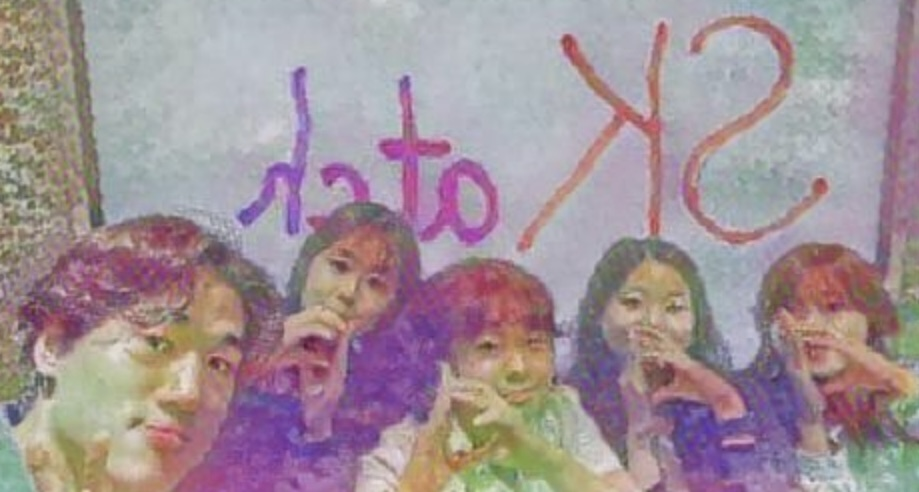
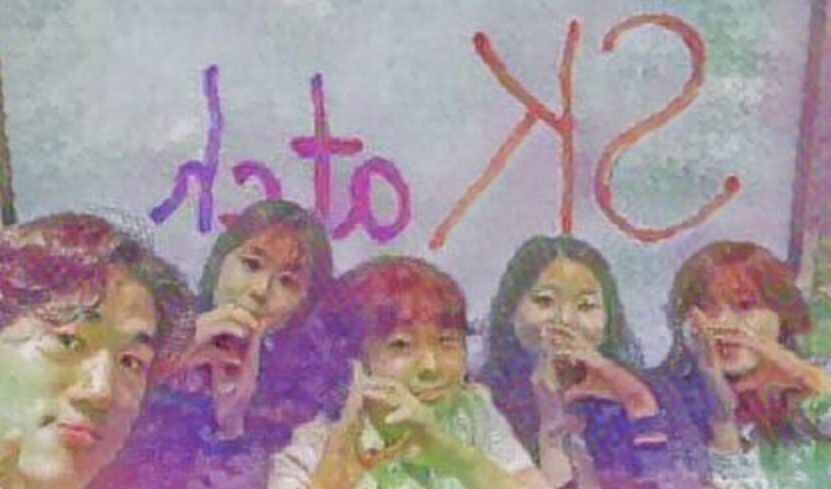
[feat] : 티켓 꾸미기UI-사진 꾸미기

diff --git a/src/domain/Ticket/screen/TicketDecoScreen.js b/src/domain/Ticket/screen/TicketDecoScreen.js
@@ -1,21 +1,30 @@
 import { StyleSheet, TouchableWithoutFeedback, View } from "react-native";
 import React, { useState } from "react";
 import {
+  accentColor,
   backgroundColor,
+  blackColor,
   mainColor,
   secondaryColor,
   whiteColor,
 } from "../../../constant/colors";
 import Text from "../../../components/MyText";
-import PhotoAlbum from "../../../constant/images/PhotoAlbum";
+
 import CustomImage from "../../../components/CustomImage";
 import TextIcon from "../../../constant/images/Text";
-import { boldFontFamily } from "../../../constant/fonts";
+import {
+  boldFontFamily,
+  lightFontFamily,
+  mediumFontFamily,
+} from "../../../constant/fonts";
 import CustomButton from "../../../components/CustomButton";
 import { useNavigation } from "@react-navigation/core";
 import CameraSelectModal from "../../../components/CameraSelectModal";
 import ImageCropPicker from "react-native-image-crop-picker";
-import { BeforePhoto } from "../../../constant/images/Sample";
+import { AfterPhoto, BeforePhoto } from "../../../constant/images/Sample";
+import { CloseIcon, CloseColorIcon } from "../../../constant/images/Close";
+import PhotoAlbumIcon from "../../../constant/images/PhotoAlbum";
+import EffectIcon from "../../../constant/images/AiEffect";
 
 export default function TicketDecoScreen() {
   const navigaiton = useNavigation();
@@ -43,7 +52,8 @@ export default function TicketDecoScreen() {
   };
 
   const [isVisible, setIsVisible] = useState(false);
-  //   const [isOrigin, setIsOrigin] = useState(true)
+  const [isDecoVisible, setIsDecoVisible] = useState(true);
+  const [isOrigin, setIsOrigin] = useState(true);
 
   const openCamera = () => {
     ImageCropPicker.openCamera(
@@ -88,10 +98,7 @@ export default function TicketDecoScreen() {
 
   function OptionButton({ img, text, style, onPress }) {
     return (
-      <TouchableWithoutFeedback
-        onPress={onPress}
-        style={{ backgroundColor: "red" }}
-      >
+      <TouchableWithoutFeedback onPress={onPress}>
         <View style={styles.btnItem}>
           <CustomImage source={img} style={style} />
           <Text style={styles.btnText}>{text}</Text>
@@ -100,24 +107,84 @@ export default function TicketDecoScreen() {
     );
   }
 
+  function PhotoDecoModal() {
+    return (
+      <View style={styles.decoContainer}>
+        <TouchableWithoutFeedback onPress={handleDecoCloseButton}>
+          <View style={styles.closeBtn}>
+            <CustomImage source={CloseIcon} style={{ width: 17, height: 22 }} />
+          </View>
+        </TouchableWithoutFeedback>
+        <View style={styles.decoBtnContainer}>
+          <TouchableWithoutFeedback onPress={handleOriginButton}>
+            <View style={styles.decoBtn}>
+              <View style={styles.decoBtnItem}>
+                <CustomImage
+                  source={CloseColorIcon}
+                  style={{ width: 18, height: 18 }}
+                />
+              </View>
+              <Text style={styles.decoBtnText}>{"원본"}</Text>
+            </View>
+          </TouchableWithoutFeedback>
+
+          <TouchableWithoutFeedback onPress={handleEffectButton}>
+            <View style={styles.decoBtn}>
+              <View style={styles.decoBtnItem}>
+                <CustomImage
+                  source={EffectIcon}
+                  style={{ width: 26, height: 22 }}
+                />
+              </View>
+              <Text style={styles.decoBtnText}>{"생성형 AI"}</Text>
+            </View>
+          </TouchableWithoutFeedback>
+        </View>
+      </View>
+    );
+  }
+
+  const handleInitButton = () => {
+    setIsOrigin(true);
+    setIsVisible(true);
+    setIsDecoVisible(true);
+  };
+  const handleDecoCloseButton = () => {
+    setIsDecoVisible(false);
+  };
+
+  const handleOriginButton = () => {
+    setIsOrigin(true);
+  };
+
+  const handleEffectButton = () => {
+    setIsOrigin(false);
+  };
+
   const handleSaveButton = () => {
     navigaiton.navigate("");
   };
+
   return (
     <View style={styles.container}>
       <View style={styles.ticketContainer}>
         <View style={styles.ticket}>
           <View style={styles.imgContainer}>
-            <CustomImage source={BeforePhoto} style={styles.img} />
+            {isVisible &&
+              (isOrigin ? (
+                <CustomImage source={BeforePhoto} style={styles.img} />
+              ) : (
+                <CustomImage source={AfterPhoto} style={styles.img} />
+              ))}
           </View>
         </View>
       </View>
       <View style={styles.btnContainer}>
         <OptionButton
-          img={PhotoAlbum}
+          img={PhotoAlbumIcon}
           text={"사진 앨범"}
           style={{ width: 32, height: 24 }}
-          onPress={openModal}
+          onPress={handleInitButton}
         />
 
         <OptionButton
@@ -127,13 +194,13 @@ export default function TicketDecoScreen() {
         />
       </View>
       <CustomButton title={"저장"} handlePress={handleSaveButton} />
-      <CameraSelectModal
+      {/* <CameraSelectModal
         isVisible={isVisible}
         openCamera={openCamera}
         openImageLibrary={openImageLibrary}
         cancelModal={cancelModal}
-      />
-      {/* <PhotoDecoModal isVisible={isDecoVisible} isOrigin={isOrigin} /> */}
+      /> */}
+      {isDecoVisible && <PhotoDecoModal />}
     </View>
   );
 }
@@ -192,5 +259,42 @@ const styles = StyleSheet.create({
     fontFamily: boldFontFamily,
     fontSize: 12,
     color: mainColor,
+  },
+  decoContainer: {
+    position: "absolute",
+    bottom: 0,
+    backgroundColor: whiteColor,
+    width: "100%",
+    height: 270,
+    alignItems: "flex-end",
+  },
+  closeBtn: {
+    margin: 10,
+  },
+  decoBtnContainer: {
+    display: "flex",
+    flexDirection: "row",
+    width: "100%",
+    marginTop: 20,
+    height: 120,
+    justifyContent: "space-evenly",
+  },
+  decoBtn: {
+    justifyContent: "center",
+    alignItems: "center",
+  },
+  decoBtnItem: {
+    width: 60,
+    height: 60,
+    backgroundColor: accentColor,
+    borderRadius: 50,
+    justifyContent: "center",
+    alignItems: "center",
+    marginBottom: 8,
+  },
+  decoBtnText: {
+    fontSize: 12,
+    fontFamily: lightFontFamily,
+    color: blackColor,
   },
 });

diff --git a/src/constant/images/Close/index.js b/src/constant/images/Close/index.js
@@ -1,3 +1,4 @@
-import CloseIcon from './Close.png'
+import CloseIcon from "./Close.png";
+import CloseColorIcon from "./CloseColored.png";
 
-export default CloseIcon
+export { CloseIcon, CloseColorIcon };

diff --git a/src/constant/images/PhotoAlbum/index.js b/src/constant/images/PhotoAlbum/index.js
@@ -1,3 +1,3 @@
-import PhotoAlbum from "./PhotoAlbum.png";
+import PhotoAlbumIcon from "./PhotoAlbum.png";
 
-export default PhotoAlbum;
+export default PhotoAlbumIcon;

diff --git a/src/constant/images/Arrange/index.js b/src/constant/images/Arrange/index.js
@@ -1,0 +1,3 @@
+import TextArrangeIcon from "./TextArrange.png";
+
+export default TextArrangeIcon;

diff --git a/src/constant/images/AiEffect/index.js b/src/constant/images/AiEffect/index.js
@@ -1,0 +1,3 @@
+import EffectIcon from "./AiEffect.png";
+
+export default EffectIcon;

diff --git a/src/constant/images/Color/index.js b/src/constant/images/Color/index.js
@@ -1,0 +1,3 @@
+import ColorIcon from "./Color.png";
+
+export default ColorIcon;
